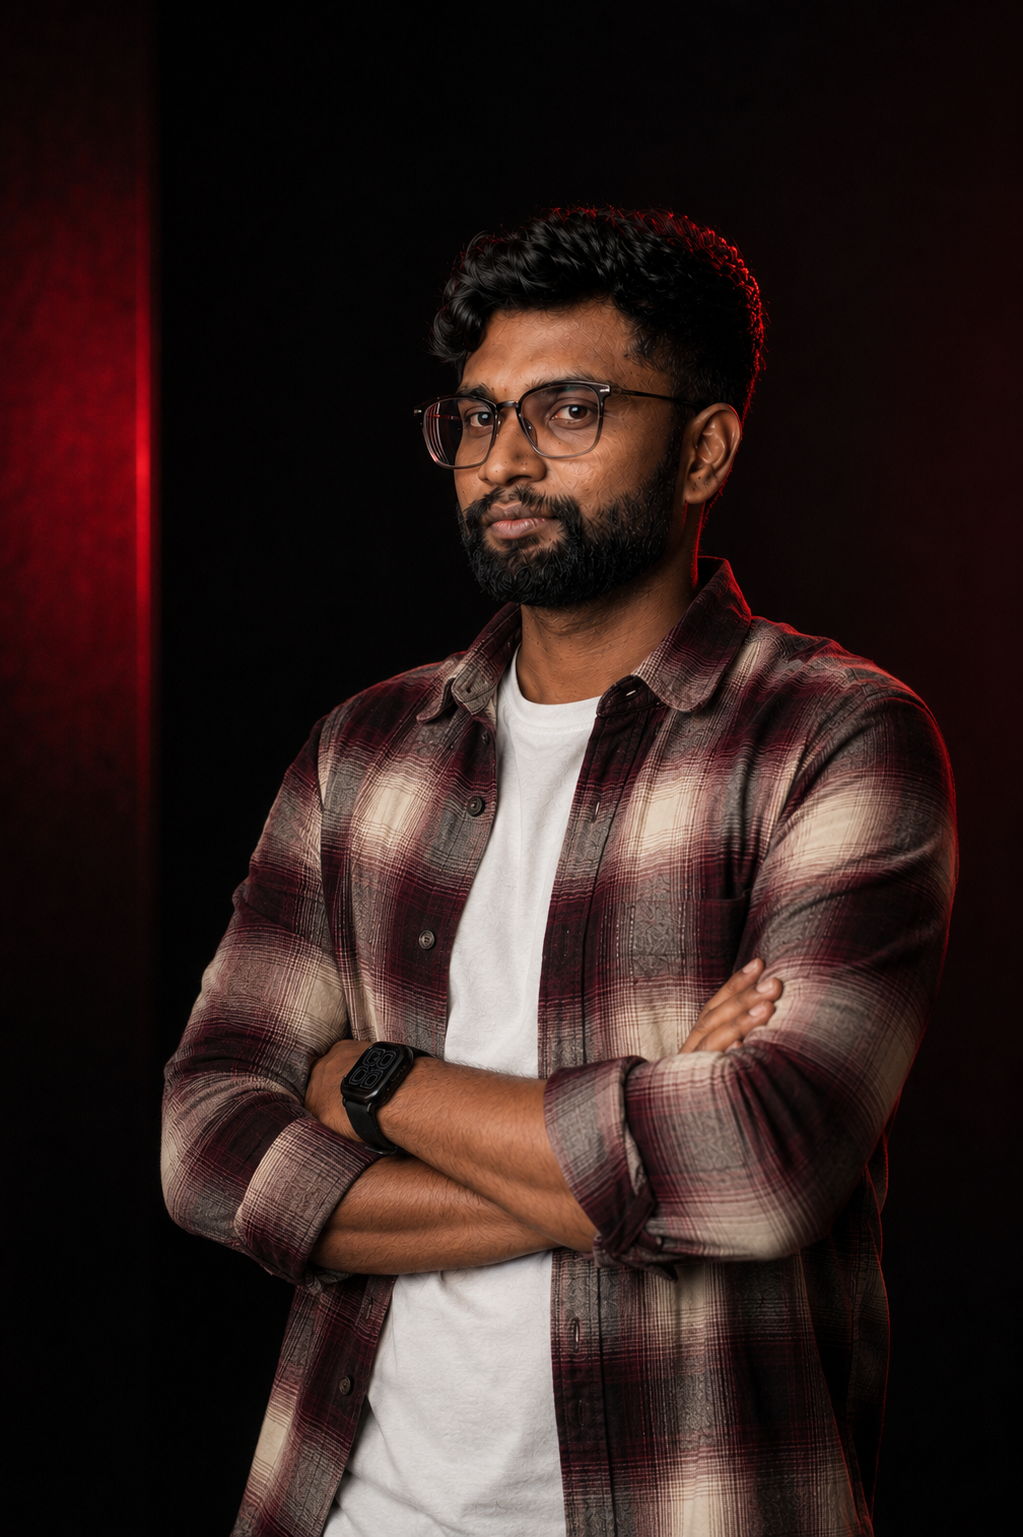
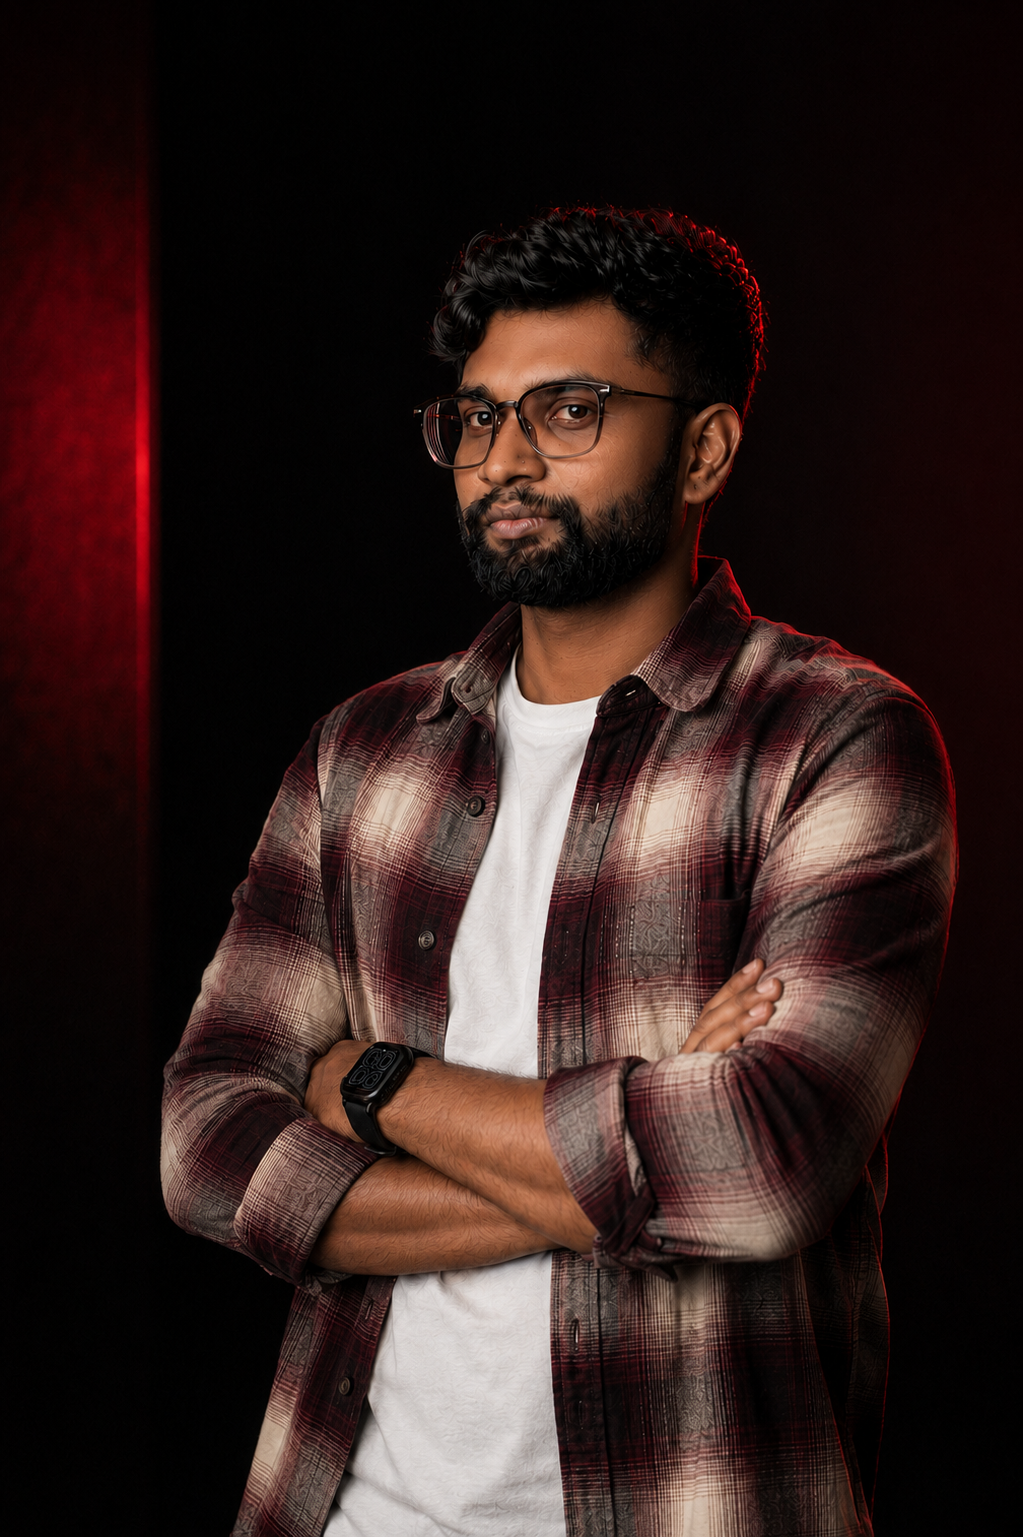
feat: update About Me section with new layout, redesigned stats, and interactive portrait image hover effect

diff --git a/index.html b/index.html
@@ -130,63 +130,63 @@
         <section class="section-about-me position-relative overflow-hidden pt-5 pb-5" id="section-about">
             <div class="hero-container position-relative z-2">
                 <!-- Main Content Area: Two-Column Layout with Integrated Grid -->
-                <div class="row g-5 align-items-center">
+                <div class="row g-4 align-items-center">
                     
                     <!-- Left Column: Biography & Stats -->
                     <div class="col-lg-7 reveal" style="--reveal-delay: 0ms">
                         <!-- Name Block matching the mockup -->
                         <div class="about-name-block">
                             <h2 style="color: #ffffff; font-family: var(--font-family-1), Impact, sans-serif; text-transform: uppercase; letter-spacing: 1px; font-size: clamp(2rem, 3.8vw, 4.5rem); font-weight: 900; margin-bottom: 10px; line-height: 0.9; white-space: nowrap;">ABOUT ME</h2>
-                            <h3 class="mb-5 mt-2" style="color: var(--accent-color); font-family: var(--font-family-2); font-weight: 700; font-size: clamp(0.9rem, 1.3vw, 1.15rem); letter-spacing: 3px; text-transform: uppercase;">THE CREATIVE MIND BEHIND THE LENS</h3>
+                            <h3 class="mb-4 mt-2" style="color: var(--accent-color); font-family: var(--font-family-2); font-weight: 700; font-size: clamp(0.9rem, 1.3vw, 1.15rem); letter-spacing: 3px; text-transform: uppercase;">CRAFTING STORIES FRAME BY FRAME</h3>
                         </div>
                         
-                        <div class="core-service-description mb-5">
-                            <p class="about-p">
+                        <div class="core-service-description mb-4 w-100">
+                            <p class="about-p" style="border-left: 2px solid var(--accent-color); padding-left: 20px;">
                                 I am Meher Krishna Bheri, a video editor and creative director. Every project starts with a story. Whether it's a brand film, YouTube documentary, commercial campaign, or social media content, my goal is simple: create visuals that capture attention and leave a lasting impression.
                             </p>
-                            <p class="about-p mb-0">
-                                I take a story-first approach to creative problem solving. By deeply understanding a brand's core communication goals, I craft narratives that resonate. It's never just about cutting footage &mdash; it's about finding the right pacing, the perfect moment of tension, and the emotional hook that drives audience engagement.
+                            <p class="about-p mb-0 mt-3">
+                                I take a story first approach to creative problem solving. By deeply understanding a brand's core communication goals, I craft narratives that resonate. It's never just about cutting footage it's about finding the right pacing, the perfect moment of tension, and the emotional hook that drives audience engagement.
                             </p>
                             <p class="about-p mb-0 mt-3">
-                                Ultimately, my work is designed for long-term impact. I collaborate with brands, creators, and businesses to build visual experiences that don't just look cinematic, but actively connect with viewers, communicate ideas clearly, and deliver meaningful results.
+                                Ultimately, my work is designed for long term impact. I collaborate with brands, creators, and businesses to build visual experiences that don't just look cinematic, but actively connect with viewers, communicate ideas clearly, and deliver meaningful results.
                             </p>
                         </div>
 
                         <!-- 2x2 Stats Grid -->
-                        <div class="row row-cols-2 g-4 mt-2">
+                        <div class="row row-cols-2 g-3 mt-2">
                             <!-- Stat 1 -->
                             <div class="col">
-                                <div class="card card-core-service h-100">
-                                    <div class="d-flex flex-column gspace-1">
-                                        <h3 class="stat-number"><span data-count="100">0</span>+</h3>
-                                        <h4 class="stat-label">Projects Delivered</h4>
+                                <div class="card h-100" style="background-color: #1a1a1a; border: none; padding: 30px;">
+                                    <div class="d-flex flex-column">
+                                        <h3 style="color: var(--accent-color); font-family: var(--font-family-1); font-size: clamp(3rem, 5vw, 4rem); margin-bottom: 0; line-height: 1;"><span data-count="100">0</span>+</h3>
+                                        <h4 style="color: #ffffff; font-family: var(--font-family-1); font-size: clamp(0.75rem, 1vw, 0.85rem); letter-spacing: 1px; margin-bottom: 0; margin-top: 5px;">PROJECTS DELIVERED</h4>
                                     </div>
                                 </div>
                             </div>
                             <!-- Stat 2 -->
                             <div class="col">
-                                <div class="card card-core-service text-white-number h-100">
-                                    <div class="d-flex flex-column gspace-1">
-                                        <h3 class="stat-number"><span data-count="50">0</span>+</h3>
-                                        <h4 class="stat-label">Brands &amp; Creators</h4>
+                                <div class="card h-100" style="background-color: #1a1a1a; border: none; padding: 30px;">
+                                    <div class="d-flex flex-column">
+                                        <h3 style="color: #ffffff; font-family: var(--font-family-1); font-size: clamp(3rem, 5vw, 4rem); margin-bottom: 0; line-height: 1;"><span data-count="50">0</span>+</h3>
+                                        <h4 style="color: #ffffff; font-family: var(--font-family-1); font-size: clamp(0.75rem, 1vw, 0.85rem); letter-spacing: 1px; margin-bottom: 0; margin-top: 5px;">BRANDS &amp; CREATORS</h4>
                                     </div>
                                 </div>
                             </div>
                             <!-- Stat 3 (highlighted) -->
                             <div class="col">
-                                <div class="card card-core-service highlight-core h-100">
-                                    <div class="d-flex flex-column gspace-1">
-                                        <h3 class="stat-number highlight"><span data-count="6">0</span>+</h3>
-                                        <h4 class="stat-label">Years Experience</h4>
+                                <div class="card h-100" style="background-color: var(--accent-color); border: none; padding: 30px;">
+                                    <div class="d-flex flex-column">
+                                        <h3 style="color: #ffffff; font-family: var(--font-family-1); font-size: clamp(3rem, 5vw, 4rem); margin-bottom: 0; line-height: 1;"><span data-count="6">0</span>+</h3>
+                                        <h4 style="color: #ffffff; font-family: var(--font-family-1); font-size: clamp(0.75rem, 1vw, 0.85rem); letter-spacing: 1px; margin-bottom: 0; margin-top: 5px;">YEARS EXPERIENCE</h4>
                                     </div>
                                 </div>
                             </div>
                             <!-- Stat 4 -->
                             <div class="col">
-                                <div class="card card-core-service h-100">
-                                    <div class="d-flex flex-column gspace-1">
-                                        <h3 class="stat-number"><span data-count="20">0</span>M+</h3>
-                                        <h4 class="stat-label">Combined Views</h4>
+                                <div class="card h-100" style="background-color: #1a1a1a; border: none; padding: 30px;">
+                                    <div class="d-flex flex-column">
+                                        <h3 style="color: var(--accent-color); font-family: var(--font-family-1); font-size: clamp(3rem, 5vw, 4rem); margin-bottom: 0; line-height: 1;"><span data-count="20">0</span>+</h3>
+                                        <h4 style="color: #ffffff; font-family: var(--font-family-1); font-size: clamp(0.75rem, 1vw, 0.85rem); letter-spacing: 1px; margin-bottom: 0; margin-top: 5px;">REPEATED CLIENTS</h4>
                                     </div>
                                 </div>
                             </div>
@@ -195,9 +195,55 @@
 
                     <!-- Right Column: Portrait Image -->
                     <div class="col-lg-5 reveal" style="--reveal-delay: 300ms">
+                        <style>
+                            .about-image-wrapper {
+                                position: relative;
+                                width: 100%;
+                                height: 100%;
+                                display: block;
+                            }
+                            .about-portrait {
+                                width: 100%;
+                                height: auto;
+                                display: block;
+                                transition: opacity 1s cubic-bezier(0.4, 0, 0.2, 1);
+                            }
+                            .portrait-color {
+                                position: absolute;
+                                top: 0;
+                                left: 0;
+                                opacity: 0;
+                                z-index: 2;
+                            }
+                            .portrait-bw {
+                                position: relative;
+                                z-index: 1;
+                            }
+                            .about-image-wrapper:hover .portrait-color {
+                                opacity: 1;
+                            }
+                            .about-image-glow {
+                                position: absolute;
+                                top: 50%;
+                                left: 50%;
+                                transform: translate(-50%, -50%);
+                                width: 80%;
+                                height: 80%;
+                                background: radial-gradient(circle, rgba(229, 9, 20, 0.1) 0%, rgba(18, 18, 18, 0) 70%);
+                                filter: blur(40px);
+                                z-index: 0;
+                                transition: background 1s cubic-bezier(0.4, 0, 0.2, 1), filter 1s cubic-bezier(0.4, 0, 0.2, 1);
+                                pointer-events: none;
+                            }
+                            .about-image-wrapper:hover .about-image-glow {
+                                background: radial-gradient(circle, rgba(229, 9, 20, 0.25) 0%, rgba(18, 18, 18, 0) 70%);
+                                filter: blur(60px);
+                            }
+                        </style>
                         <div class="about-image-wrapper">
                             <div class="about-image-glow"></div>
-                            <img loading="lazy" src="./assets/images/meher-portrait.jpg.png" alt="Meher Krishna Bheri - Creative Director" class="img-fluid about-portrait">
+                            <img loading="lazy" src="./assets/images/meher-portrait BW.jpg" alt="Meher Krishna Bheri - Creative Director" class="img-fluid about-portrait portrait-bw">
+                            <img loading="lazy" src="./assets/images/meher-portrait.jpg.png" alt="Meher Krishna Bheri - Creative Director Color" class="img-fluid about-portrait portrait-color">
                         </div>
                     </div>
 
@@ -405,7 +451,7 @@
                         <h2 class="svc-heading">What I<br><span style="color:var(--accent-color)">Do Best</span></h2>
                     </div>
                     <div class="svc-header__right">
-                        <p>From cinematic storytelling to post-production mastery — every service is built around your vision, delivered with precision.</p>
+                        <p>Whether it's a brand film, YouTube documentary or social media campaign, every edit begins with a story.</p>
                         <a href="#contact-section" class="btn btn-accent mt-3">Start a Project</a>
                     </div>
                 </div>
@@ -696,13 +742,14 @@
 
         <!-- Partner Section -->
         <section class="section-small">
-            <div class="hero-container overflow-hidden">
+            <div class="hero-container">
                 <div class="partners-container">
-                    <h5 class="partnership-title-content">
+                    <h5 class="partnership-title-content mb-2">
                         Trusted by Industry Leaders &amp; Creative Brands
                     </h5>
-                    <div class="overflow-hidden">
-                        <div class="swiper swiperpartner">
+                    <div class="pb-4">
+                        <!-- Desktop Swiper (Unchanged layout) -->
+                        <div class="swiper swiperpartner d-none d-lg-block">
                             <div class="swiper-wrapper">
                                 <div class="swiper-slide"><img loading="lazy" src="https://montra2.foxcreation.net/assets/images/Client-6.png" alt="Partner" class="partner-image"></div>
                                 <div class="swiper-slide"><img loading="lazy" src="https://montra2.foxcreation.net/assets/images/Client-7.png" alt="Partner" class="partner-image"></div>
@@ -712,6 +759,59 @@
                                 <div class="swiper-slide"><img loading="lazy" src="https://montra2.foxcreation.net/assets/images/Client-6.png" alt="Partner" class="partner-image"></div>
                                 <div class="swiper-slide"><img loading="lazy" src="https://montra2.foxcreation.net/assets/images/Client-7.png" alt="Partner" class="partner-image"></div>
                                 <div class="swiper-slide"><img loading="lazy" src="https://montra2.foxcreation.net/assets/images/Client-5.png" alt="Partner" class="partner-image"></div>
+                            </div>
+                        </div>
+
+                        <!-- Mobile Marquee (Single Row) -->
+                        <style>
+                        .logo-marquee-wrapper {
+                            position: relative;
+                            width: 100%;
+                            height: 60px;
+                            margin: 15px auto 0;
+                            display: flex;
+                            align-items: center;
+                            overflow: hidden;
+                            /* Premium fade mask to prevent harsh edge clipping */
+                            -webkit-mask-image: linear-gradient(to right, transparent, black 15%, black 85%, transparent);
+                            mask-image: linear-gradient(to right, transparent, black 15%, black 85%, transparent);
+                        }
+                        .row-single {
+                            display: flex;
+                            width: max-content;
+                            align-items: center;
+                            gap: 60px;
+                            padding: 0 30px;
+                            animation: scrollSingle 40s linear infinite;
+                        }
+                        @keyframes scrollSingle {
+                            0% { transform: translateX(0); }
+                            100% { transform: translateX(calc(-50% - 30px)); }
+                        }
+                        .partner-image-mobile {
+                            max-height: 40px;
+                            object-fit: contain;
+                            filter: brightness(0) invert(1);
+                            opacity: 0.5;
+                        }
+                        .logo-marquee-wrapper:hover .row-single {
+                            animation-play-state: paused;
+                        }
+                        </style>
+                        <div class="d-block d-lg-none logo-marquee-wrapper">
+                            <div class="row-single">
+                                <!-- Set 1 -->
+                                <img src="https://montra2.foxcreation.net/assets/images/Client-1.png" class="partner-image-mobile" alt="Client Logo">
+                                <img src="https://montra2.foxcreation.net/assets/images/Client-2.png" class="partner-image-mobile" alt="Client Logo">
+                                <img src="https://montra2.foxcreation.net/assets/images/Client-5.png" class="partner-image-mobile" alt="Client Logo">
+                                <img src="https://montra2.foxcreation.net/assets/images/Client-6.png" class="partner-image-mobile" alt="Client Logo">
+                                <img src="https://montra2.foxcreation.net/assets/images/Client-7.png" class="partner-image-mobile" alt="Client Logo">
+                                <!-- Set 2 (Duplicate for loop) -->
+                                <img src="https://montra2.foxcreation.net/assets/images/Client-1.png" class="partner-image-mobile" alt="Client Logo">
+                                <img src="https://montra2.foxcreation.net/assets/images/Client-2.png" class="partner-image-mobile" alt="Client Logo">
+                                <img src="https://montra2.foxcreation.net/assets/images/Client-5.png" class="partner-image-mobile" alt="Client Logo">
+                                <img src="https://montra2.foxcreation.net/assets/images/Client-6.png" class="partner-image-mobile" alt="Client Logo">
+                                <img src="https://montra2.foxcreation.net/assets/images/Client-7.png" class="partner-image-mobile" alt="Client Logo">
                             </div>
                         </div>
                     </div>
@@ -841,13 +941,11 @@
                     <div class="footer-title-container text-center w-100">
                         <span class="footer-title">Meher Krishna</span>
                     </div>
-                    <div class="footer-copyright-container">
-                        <a href="javascript:void(0)" class="legallink text-decoration-none">Privacy Policy</a>
-                        <div class="d-flex flex-column align-items-center">
+                    <div class="footer-copyright-container justify-content-center">
+                        <div class="d-flex flex-column align-items-center w-100">
                             <span class="copyright">© 2026 Meher Krishna Bheri. All Rights Reserved. • Crafted by <a href="https://onemark.co.in" target="_blank" class="onemark-link">OneMark</a>.</span>
                             <span class="copyright mt-2 text-center" style="opacity: 0.8; letter-spacing: 0.5px;">Video Editor • Creative Director • Storyteller</span>
                         </div>
-                        <a href="javascript:void(0)" class="legallink text-decoration-none">Terms & Conditions</a>
                     </div>
                 </div>
             </div>